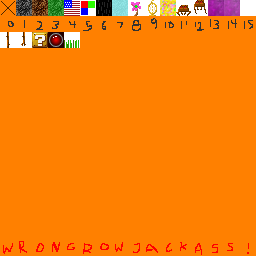
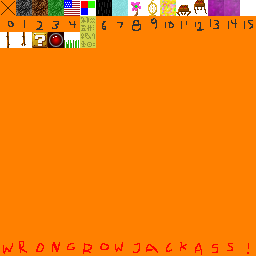
Stackable blocks > 1 in height

Changed region(s): [[0.3125, 0.0625, 0.375, 0.1875]]

diff --git a/main.js b/main.js
@@ -199,6 +199,13 @@ var BLOCK_TYPES = {
       renderToFramebuffer(this, this.framebuffer);
     }
   },
+  obelisk: {
+    tile: [5, 2],
+    height: 2,
+    solid: true,
+    opaque: true,
+    geometry: geometryBlock,
+  },
 };
 var NBLOCKTYPES = 0;
 for (var i in BLOCK_TYPES) {
@@ -1365,7 +1372,7 @@ function geometryBlock(b) {
         bottom = 0;
         top = 1;
       } else {
-        var pos = frac((typeof b.stackPos === 'undefined') ? b.y : b.stackPos);
+        var pos = (typeof b.stackPos === 'undefined') ? frac(b.y) : b.stackPos;
         pos = SY - pos;
         bottom = pos;
         top = bottom + SY;
